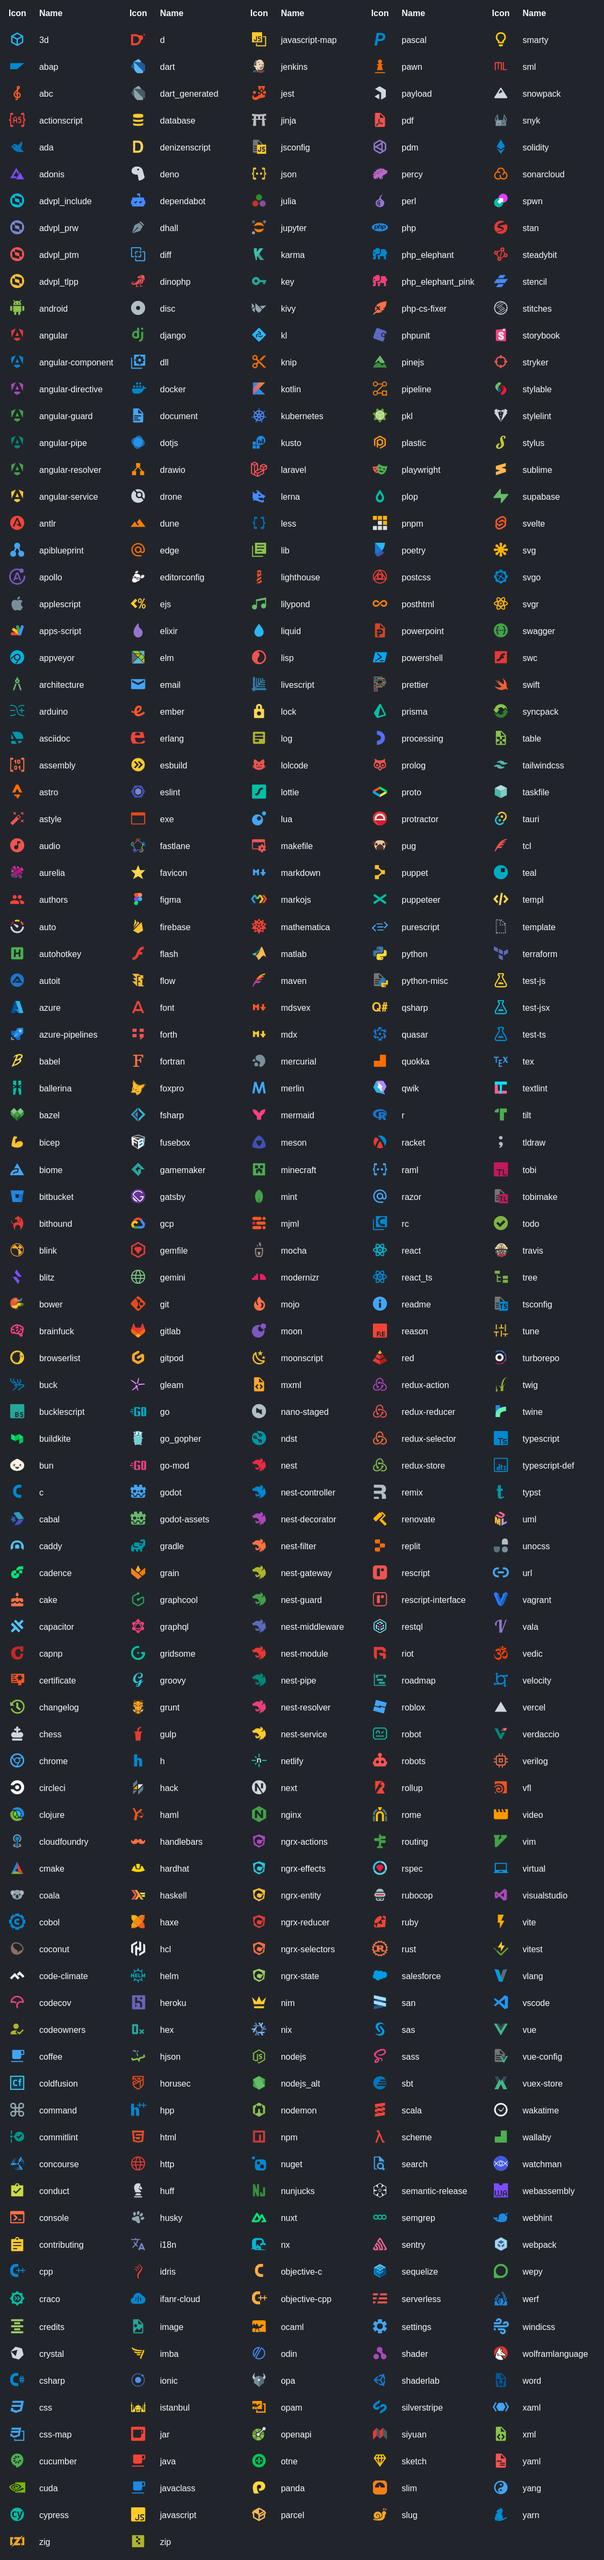
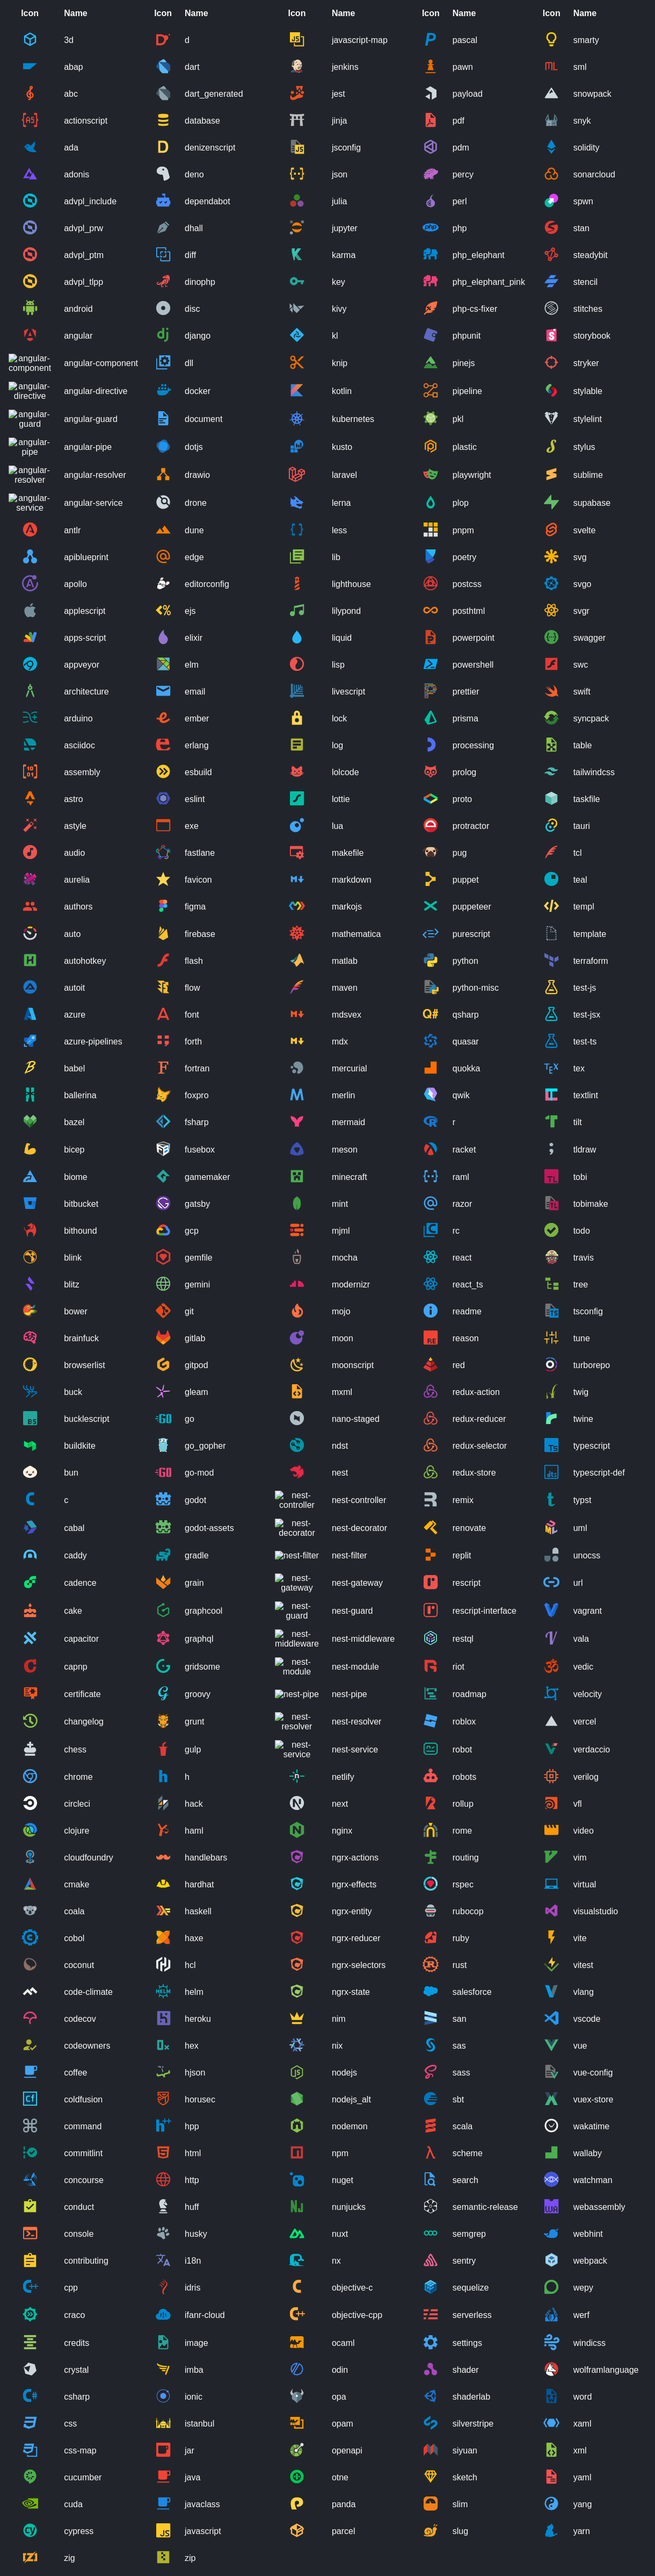
release: 🔖 v0.48.0

diff --git a/CHANGELOG.md b/CHANGELOG.md
@@ -3,10 +3,22 @@
  All notable changes to this project will be documented in this file. Dates are displayed in UTC.
 
  
+#### [v0.48.0](https://github.com/lucodear/lucodear-icons/compare/v0.47.0...v0.48.0) 
+
+> May 12, 2024 
+
+- fix: 🚑 wrong settings names and setting references in doc [`fc32d38b`](https://github.com/lucodear/lucodear-icons/commit/fc32d38b)
+- Added `devcontainer.json` [`#2319`](https://github.com/lucodear/lucodear-icons/pull/2319)
+- feat: update link in readme [`de998a76`](https://github.com/lucodear/lucodear-icons/commit/de998a76)
+- Feat/update angular and nest icons [`#2314`](https://github.com/lucodear/lucodear-icons/pull/2314)
+- feat: support biome.jsonc [`#2316`](https://github.com/lucodear/lucodear-icons/pull/2316)
+- Modernize svgo config [`#2301`](https://github.com/lucodear/lucodear-icons/pull/2301)
+ 
 #### [v0.47.0](https://github.com/lucodear/lucodear-icons/compare/v0.46.0...v0.47.0) 
 
 > May 6, 2024 
 
+- release: 🔖 v0.47.0 [`5b3a7b1f`](https://github.com/lucodear/lucodear-icons/commit/5b3a7b1f)
 - ci: 🔄 rollback to preversion script usage [`ebc10642`](https://github.com/lucodear/lucodear-icons/commit/ebc10642)
 - ci: 🔄 release action: stage all created images [`11b167cd`](https://github.com/lucodear/lucodear-icons/commit/11b167cd)
 - style: 💄 fix linting issues [`a7175dc4`](https://github.com/lucodear/lucodear-icons/commit/a7175dc4)
